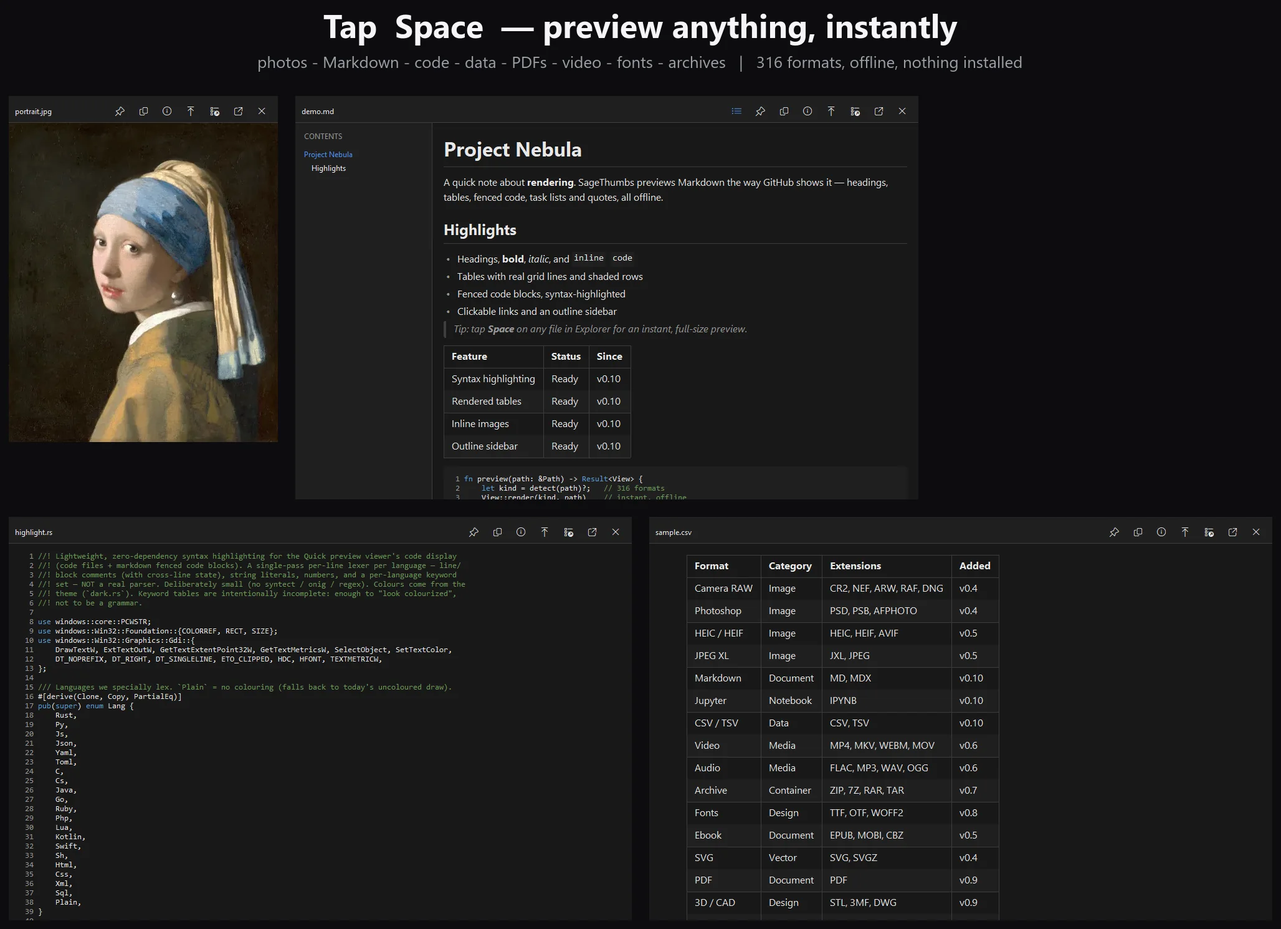
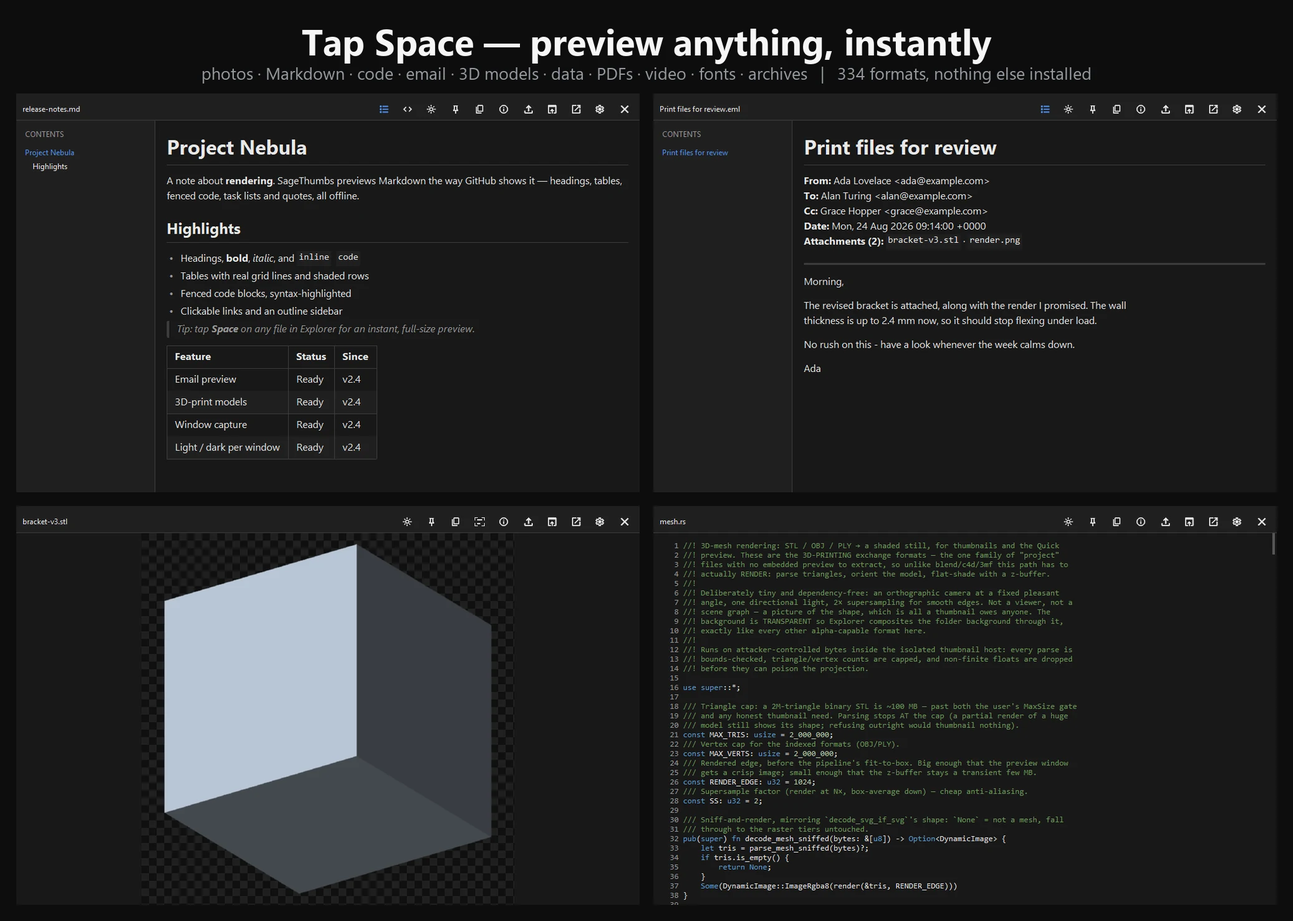
Catch the site up with 2.4.0
Copy: email preview (.eml / Outlook .msg), 3D-print models (STL/OBJ/PLY),
click-a-window capture with a delay, per-window light/dark, and table-aware
OCR. Two new "instead of" cards for the mail and 3D viewers this replaces.
The "New" badges move to the things that are actually new in this release.

Data: the format wall is regenerated from st2k formats (334, Image 202 - it
was still showing 195), the version pills read 2.4.0, and llms.txt /
llms-full.txt are rewritten to match. The comparison table's hard-coded
"active (v2.3.0)" is now version-free so it cannot go stale again.

Assets: the hero collage is regenerated (it advertised 316 formats over a
caption toolbar that no longer exists) along with settings.gif and
preview-quicklook.png; the collage's intrinsic width/height are corrected.

diff --git a/index.html b/index.html
@@ -5,7 +5,7 @@
 <meta name="viewport" content="width=device-width, initial-scale=1">
 <meta name="google-site-verification" content="CtrxYGRAu0kR219D9MHtBV3yyWb729kDbfQP6hnK7zg">
 <title>SageThumbs 2K: Explorer thumbnails for hundreds of file types Windows can't read</title>
-<meta name="description" content="File Explorer thumbnails for 331 file types Windows can't read: RAW, PSD, HEIC, video, ebooks, comics. Plus Quick Look, convert, resize, OCR. Free.">
+<meta name="description" content="File Explorer thumbnails for 334 file types Windows can't read: RAW, PSD, HEIC, video, ebooks, 3D models. Plus Quick Look, email preview, convert, resize, OCR. Free.">
 <link rel="canonical" href="https://sagethumbs.lunarwerx.com/">
 <meta name="robots" content="index, follow, max-image-preview:large, max-snippet:-1, max-video-preview:-1">
 <link rel="icon" type="image/png" href="favicon.png">
@@ -48,7 +48,7 @@
       "name": "SageThumbs 2K",
       "operatingSystem": "Windows 11, Windows 10",
       "applicationCategory": "UtilitiesApplication",
-      "softwareVersion": "2.3.2",
+      "softwareVersion": "2.4.0",
       "url": "https://sagethumbs.lunarwerx.com/",
       "downloadUrl": "https://github.com/LunarWerxs/SageThumbs-2k/releases/latest",
       "softwareHelp": "https://github.com/LunarWerxs/SageThumbs-2k",
@@ -67,9 +67,13 @@
         "Command line and MCP server for AI agents",
         "Space-bar Quick Look: instant full-size file preview",
         "Screen OCR: drag a region and copy the text on it",
-        "HDR screen capture, tone-mapped instead of washed out (new)",
-        "Strip metadata including Content Credentials (C2PA), across JPEG, PNG, WebP, SVG, HEIC and AVIF (new)",
-        "EPS thumbnails from the embedded raster preview, without running PostScript (new)",
+        "HDR screen capture, tone-mapped instead of washed out",
+        "Strip metadata including Content Credentials (C2PA), across JPEG, PNG, WebP, SVG, HEIC and AVIF",
+        "EPS thumbnails from the embedded raster preview, without running PostScript",
+        "3D-print model thumbnails and preview: STL, OBJ and PLY, shaded (new)",
+        "Email preview: .eml and Outlook .msg, with headers, body and the attachment list (new)",
+        "Capture one window by pointing at it, without cropping the screen by hand (new)",
+        "Light or dark preview background per window, without changing the app theme (new)",
         "Replaces a dozen tools: converter, resizer, colour picker, screenshot, OCR and uploader",
         "Crash-isolated, memory-safe Rust"
       ],
@@ -188,7 +192,7 @@
           "name": "What other tools does it replace?",
           "acceptedAnswer": {
             "@type": "Answer",
-            "text": "One installer covers a separate thumbnailer, image converter, resizer, colour picker, screenshot and annotation tool, OCR utility, EXIF viewer, metadata stripper and image uploader, plus a command line and MCP server for scripts and AI agents. See what it replaces for the full list."
+            "text": "One installer covers a separate thumbnailer, image converter, resizer, colour picker, screenshot and annotation tool, OCR utility, EXIF viewer, metadata stripper, image uploader, file previewer, email viewer and 3D-model viewer, plus a command line and MCP server for scripts and AI agents. See what it replaces for the full list."
           }
         }
       ]
@@ -850,19 +854,19 @@ a.lw-parent:hover .lw-tip,a.lw-parent:focus-visible .lw-tip{opacity:1;visibility
       <p>Windows ships codecs for a handful of common types. Every other extension is content-sniffed and routed to a pure-Rust decoder, the Windows codecs, or an isolated converter. First match wins.</p>
     </div>
 
-    <div class="bar reveal" role="img" aria-label="Format coverage by category: 195 image, 43 document, 34 camera raw, 22 video, 18 audio, 12 ebook and comics, 3 archive">
-      <span style="width:59.6%;background:#4d9cff"></span>
-      <span style="width:13.1%;background:#ef8b5a"></span>
-      <span style="width:10.4%;background:#b48bff"></span>
-      <span style="width:6.7%;background:#f06ab0"></span>
-      <span style="width:5.5%;background:#38d39f"></span>
-      <span style="width:3.7%;background:#f2c14e"></span>
+    <div class="bar reveal" role="img" aria-label="Format coverage by category: 202 image, 43 document, 34 camera raw, 22 video, 18 audio, 12 ebook and comics, 3 archive">
+      <span style="width:60.5%;background:#4d9cff"></span>
+      <span style="width:12.9%;background:#ef8b5a"></span>
+      <span style="width:10.2%;background:#b48bff"></span>
+      <span style="width:6.6%;background:#f06ab0"></span>
+      <span style="width:5.4%;background:#38d39f"></span>
+      <span style="width:3.6%;background:#f2c14e"></span>
       <span style="width:0.9%;background:#7d8ca3"></span>
     </div>
     <div class="fmtwall reveal">
       <div class="fmtgroup reveal" data-cat="img">
-        <h3 class="fgh"><span class="sw"></span>Image <span class="cnt">195</span></h3>
-        <div class="fgchips"><span class="fc" title="Rhino 3D model">.3dm</span> <span class="fc" title="3D Manufacturing Format">.3mf</span> <span class="fc" title="Affinity document">.af</span> <span class="fc" title="Affinity Designer document">.afdesign</span> <span class="fc" title="Affinity Photo document">.afphoto</span> <span class="fc" title="Affinity Publisher document">.afpub</span> <span class="fc" title="Affinity template document">.aftemplate</span> <span class="fc" title="Adobe Illustrator (PDF-compatible)">.ai</span> <span class="fc" title="Animated Portable Network Graphics">.apng</span> <span class="fc" title="AVC Image File Format">.avci</span> <span class="fc" title="AV1 Image File Format">.avif</span> <span class="fc" title="Blender scene">.blend</span> <span class="fc" title="Blender auto-save backup">.blend1</span> <span class="fc" title="Blender auto-save backup">.blend10</span> <span class="fc" title="Blender auto-save backup">.blend11</span> <span class="fc" title="Blender auto-save backup">.blend12</span> <span class="fc" title="Blender auto-save backup">.blend13</span> <span class="fc" title="Blender auto-save backup">.blend14</span> <span class="fc" title="Blender auto-save backup">.blend15</span> <span class="fc" title="Blender auto-save backup">.blend16</span> <span class="fc" title="Blender auto-save backup">.blend17</span> <span class="fc" title="Blender auto-save backup">.blend18</span> <span class="fc" title="Blender auto-save backup">.blend19</span> <span class="fc" title="Blender auto-save backup">.blend2</span> <span class="fc" title="Blender auto-save backup">.blend20</span> <span class="fc" title="Blender auto-save backup">.blend21</span> <span class="fc" title="Blender auto-save backup">.blend22</span> <span class="fc" title="Blender auto-save backup">.blend23</span> <span class="fc" title="Blender auto-save backup">.blend24</span> <span class="fc" title="Blender auto-save backup">.blend25</span> <span class="fc" title="Blender auto-save backup">.blend26</span> <span class="fc" title="Blender auto-save backup">.blend27</span> <span class="fc" title="Blender auto-save backup">.blend28</span> <span class="fc" title="Blender auto-save backup">.blend29</span> <span class="fc" title="Blender auto-save backup">.blend3</span> <span class="fc" title="Blender auto-save backup">.blend30</span> <span class="fc" title="Blender auto-save backup">.blend31</span> <span class="fc" title="Blender auto-save backup">.blend32</span> <span class="fc" title="Blender auto-save backup">.blend4</span> <span class="fc" title="Blender auto-save backup">.blend5</span> <span class="fc" title="Blender auto-save backup">.blend6</span> <span class="fc" title="Blender auto-save backup">.blend7</span> <span class="fc" title="Blender auto-save backup">.blend8</span> <span class="fc" title="Blender auto-save backup">.blend9</span> <span class="fc" title="Microsoft Windows bitmap image">.bmp</span> <span class="fc" title="Silicon Graphics (B&amp;W)">.bw</span> <span class="fc" title="Cinema 4D scene">.c4d</span> <span class="fc" title="Continuous Acquisition and Life-cycle Support">.cal</span> <span class="fc" title="Continuous Acquisition and Life-cycle Support">.cals</span> <span class="fc" title="CorelDRAW drawing">.cdr</span> <span class="fc" title="CorelDRAW template">.cdt</span> <span class="fc" title="Cineon Image File">.cin</span> <span class="fc" title="Clip Studio Paint document">.clip</span> <span class="fc" title="Corel Presentation Exchange">.cmx</span> <span class="fc" title="Microsoft icon">.cur</span> <span class="fc" title="DR Halo">.cut</span> <span class="fc" title="OpenEXR image">.cxr</span> <span class="fc" title="DICOM medical image">.dcm</span> <span class="fc" title="ZSoft IBM PC multi-page Paintbrush">.dcx</span> <span class="fc" title="Microsoft DirectDraw Surface">.dds</span> <span class="fc" title="Windows DIB">.dib</span> <span class="fc" title="DICOM medical image">.dicom</span> <span class="fc" title="SMPTE 268M-2003">.dpx</span> <span class="fc" title="AutoCAD drawing">.dwg</span> <span class="fc" title="Microsoft DirectDraw Surface">.dxt1</span> <span class="fc" title="Microsoft DirectDraw Surface">.dxt5</span> <span class="fc" title="Windows Enhanced Metafile">.emf</span> <span class="fc" title="Windows Enhanced Metafile">.emg</span> <span class="fc" title="Compressed Windows Enhanced Metafile">.emz</span> <span class="fc" title="Encapsulated PostScript (embedded preview)">.eps</span> <span class="fc" title="High Dynamic-range (OpenEXR)">.exr</span> <span class="fc" title="Autodesk Fusion 360 archive">.f3d</span> <span class="fc" title="Farbfeld">.farbfeld</span> <span class="fc" title="FreeCAD document">.fcstd</span> <span class="fc" title="Farbfeld">.ff</span> <span class="fc" title="Flexible Image Transport System">.fits</span> <span class="fc" title="FilmLight">.fl32</span> <span class="fc" title="Flexible Image Transport System">.fts</span> <span class="fc" title="3D-printer G-code (sliced)">.gco</span> <span class="fc" title="3D-printer G-code (sliced)">.gcode</span> <span class="fc" title="CompuServe graphics interchange format">.gif</span> <span class="fc" title="HD Photo (JPEG XR)">.hdp</span> <span class="fc" title="Radiance RGBE image format">.hdr</span> <span class="fc" title="Radiance HDR image format">.hdri</span> <span class="fc" title="High Efficiency Image Format">.heic</span> <span class="fc" title="HEIF image sequence">.heics</span> <span class="fc" title="High Efficiency Image Format">.heif</span> <span class="fc" title="HEIF image sequence">.heifs</span> <span class="fc" title="High Efficiency Image Format">.hif</span> <span class="fc" title="Truevision Targa image">.icb</span> <span class="fc" title="Apple Icon Image">.icns</span> <span class="fc" title="Microsoft icon">.ico</span> <span class="fc" title="Microsoft icon">.icon</span> <span class="fc" title="Amiga IFF ILBM image">.iff</span> <span class="fc" title="Amiga IFF ILBM image">.ilbm</span> <span class="fc" title="JPEG-2000 Code Stream Syntax">.j2c</span> <span class="fc" title="JPEG-2000 Code Stream Syntax">.j2k</span> <span class="fc" title="JPEG/JFIF">.jfif</span> <span class="fc" title="JPEG Network Graphics">.jng</span> <span class="fc" title="Garmin tile format">.jnx</span> <span class="fc" title="JPEG-2000 File Format Syntax">.jp2</span> <span class="fc" title="JPEG-2000 Code Stream Syntax">.jpc</span> <span class="fc" title="JPEG (JFIF)">.jpe</span> <span class="fc" title="JPEG (JFIF)">.jpeg</span> <span class="fc" title="JPEG-2000 File Format Syntax">.jpf</span> <span class="fc" title="JPEG (JFIF)">.jpg</span> <span class="fc" title="JPEG-2000 File Format Syntax">.jpm</span> <span class="fc" title="Stereo JPEG">.jps</span> <span class="fc" title="JPEG-2000 Part-2 (extended)">.jpx</span> <span class="fc" title="JPEG XL (ISO/IEC 18181)">.jxl</span> <span class="fc" title="JPEG XR (ISO/IEC 29199-2)">.jxr</span> <span class="fc" title="Krita document">.kra</span> <span class="fc" title="Deluxe Paint ILBM image">.lbm</span> <span class="fc" title="Apple Live Photo">.livp</span> <span class="fc" title="MacPaint">.mac</span> <span class="fc" title="MATLAB level 5 image format">.mat</span> <span class="fc" title="Autodesk 3ds Max scene">.max</span> <span class="fc" title="Magick Image File Format">.miff</span> <span class="fc" title="Multiple-image Network Graphics">.mng</span> <span class="fc" title="Multi-Picture (3D) JPEG">.mpo</span> <span class="fc" title="OpenRaster format">.ora</span> <span class="fc" title="Portable Arbitrary Map">.pam</span> <span class="fc" title="Portable bitmap format">.pbm</span> <span class="fc" title="Photo CD">.pcd</span> <span class="fc" title="ZSoft IBM PC Paintbrush">.pcx</span> <span class="fc" title="Palm Database ImageViewer Format">.pdb</span> <span class="fc" title="Adobe Photoshop bitmap">.pdd</span> <span class="fc" title="Paint.NET image">.pdn</span> <span class="fc" title="Embird Embroidery Format">.pes</span> <span class="fc" title="Portable float format">.pfm</span> <span class="fc" title="Portable graymap format">.pgm</span> <span class="fc" title="JPEG 2000 uncompressed format">.pgx</span> <span class="fc" title="Photo CD">.ph</span> <span class="fc" title="Portable half float format">.phm</span> <span class="fc" title="Alias/Wavefront RLE image format">.pix</span> <span class="fc" title="Portable Network Graphics">.png</span> <span class="fc" title="Portable anymap">.pnm</span> <span class="fc" title="Portable pixmap format">.ppm</span> <span class="fc" title="Procreate document">.procreate</span> <span class="fc" title="Adobe Large Document Format">.psb</span> <span class="fc" title="Adobe Photoshop bitmap">.psd</span> <span class="fc" title="Adobe Photoshop template">.psdt</span> <span class="fc" title="Paint Shop Pro image">.psp</span> <span class="fc" title="Paint Shop Pro brush">.pspbrush</span> <span class="fc" title="Paint Shop Pro picture frame">.pspframe</span> <span class="fc" title="Paint Shop Pro image">.pspimage</span> <span class="fc" title="Paint Shop Pro mask">.pspmask</span> <span class="fc" title="Paint Shop Pro selection">.pspselection</span> <span class="fc" title="Paint Shop Pro preset shape">.pspshape</span> <span class="fc" title="Paint Shop Pro picture tube">.psptube</span> <span class="fc" title="Pyramid encoded TIFF">.ptif</span> <span class="fc" title="Seattle Film Works">.pwp</span> <span class="fc" title="Quite OK image format">.qoi</span> <span class="fc" title="SUN Rasterfile">.ras</span> <span class="fc" title="Radiance RGBE image format">.rgbe</span> <span class="fc" title="Alias/Wavefront image">.rla</span> <span class="fc" title="Utah Run length encoded image">.rle</span> <span class="fc" title="Raw Media Format">.rmf</span> <span class="fc" title="ZX-Spectrum SCREEN$">.scr</span> <span class="fc" title="Scitex HandShake">.sct</span> <span class="fc" title="Simple File Format Family Images">.sf3</span> <span class="fc" title="Seattle Film Works">.sfw</span> <span class="fc" title="Silicon Graphics RGB">.sgi</span> <span class="fc" title="SketchUp backup model">.skb</span> <span class="fc" title="Sketch design document">.sketch</span> <span class="fc" title="SketchUp model">.skp</span> <span class="fc" title="Sinar CaptureShop Raw Format">.sti</span> <span class="fc" title="SUN Rasterfile">.sun</span> <span class="fc" title="Scalable Vector Graphics">.svg</span> <span class="fc" title="Compressed Scalable Vector Graphics">.svgz</span> <span class="fc" title="Truevision Targa image">.tga</span> <span class="fc" title="Tagged Image File Format">.tif</span> <span class="fc" title="Tagged Image File Format">.tiff</span> <span class="fc" title="Tagged Image File Format (64-bit)">.tiff64</span> <span class="fc" title="PSX TIM">.tim</span> <span class="fc" title="PS2 TIM2">.tm2</span> <span class="fc" title="Truevision Targa image">.tpic</span> <span class="fc" title="Paint Shop Pro picture tube (legacy)">.tub</span> <span class="fc" title="Truevision Targa image">.vda</span> <span class="fc" title="Video Image Communication And Retrieval">.vicar</span> <span class="fc" title="Khoros Visualization image">.viff</span> <span class="fc" title="VIPS image">.vips</span> <span class="fc" title="Truevision Targa image">.vst</span> <span class="fc" title="HD Photo / Windows Media Photo (JPEG XR)">.wdp</span> <span class="fc" title="Google WebP">.webp</span> <span class="fc" title="Windows Metafile">.wmf</span> <span class="fc" title="HD Photo / Windows Media Photo (JPEG XR)">.wmp</span> <span class="fc" title="Compressed Windows Metafile">.wmz</span> <span class="fc" title="Word Perfect Graphics">.wpg</span> <span class="fc" title="X Windows system bitmap">.xbm</span> <span class="fc" title="GIMP image">.xcf</span> <span class="fc" title="Adobe XD design">.xd</span> <span class="fc" title="X Windows system pixmap">.xpm</span> <span class="fc" title="Khoros Visualization image">.xv</span> <span class="fc" title="Radiance XYZE image format">.xyze</span></div>
+        <h3 class="fgh"><span class="sw"></span>Image <span class="cnt">202</span></h3>
+        <div class="fgchips"><span class="fc" title="Rhino 3D model">.3dm</span> <span class="fc" title="3D Manufacturing Format">.3mf</span> <span class="fc" title="Affinity document">.af</span> <span class="fc" title="Affinity Designer document">.afdesign</span> <span class="fc" title="Affinity Photo document">.afphoto</span> <span class="fc" title="Affinity Publisher document">.afpub</span> <span class="fc" title="Affinity template document">.aftemplate</span> <span class="fc" title="Adobe Illustrator (PDF-compatible)">.ai</span> <span class="fc" title="Android application package">.apk</span> <span class="fc" title="Android split-APK bundle (APKM)">.apkm</span> <span class="fc" title="Android split-APK bundle">.apks</span> <span class="fc" title="Animated Portable Network Graphics">.apng</span> <span class="fc" title="AVC Image File Format">.avci</span> <span class="fc" title="AV1 Image File Format">.avif</span> <span class="fc" title="Blender scene">.blend</span> <span class="fc" title="Blender auto-save backup">.blend1</span> <span class="fc" title="Blender auto-save backup">.blend10</span> <span class="fc" title="Blender auto-save backup">.blend11</span> <span class="fc" title="Blender auto-save backup">.blend12</span> <span class="fc" title="Blender auto-save backup">.blend13</span> <span class="fc" title="Blender auto-save backup">.blend14</span> <span class="fc" title="Blender auto-save backup">.blend15</span> <span class="fc" title="Blender auto-save backup">.blend16</span> <span class="fc" title="Blender auto-save backup">.blend17</span> <span class="fc" title="Blender auto-save backup">.blend18</span> <span class="fc" title="Blender auto-save backup">.blend19</span> <span class="fc" title="Blender auto-save backup">.blend2</span> <span class="fc" title="Blender auto-save backup">.blend20</span> <span class="fc" title="Blender auto-save backup">.blend21</span> <span class="fc" title="Blender auto-save backup">.blend22</span> <span class="fc" title="Blender auto-save backup">.blend23</span> <span class="fc" title="Blender auto-save backup">.blend24</span> <span class="fc" title="Blender auto-save backup">.blend25</span> <span class="fc" title="Blender auto-save backup">.blend26</span> <span class="fc" title="Blender auto-save backup">.blend27</span> <span class="fc" title="Blender auto-save backup">.blend28</span> <span class="fc" title="Blender auto-save backup">.blend29</span> <span class="fc" title="Blender auto-save backup">.blend3</span> <span class="fc" title="Blender auto-save backup">.blend30</span> <span class="fc" title="Blender auto-save backup">.blend31</span> <span class="fc" title="Blender auto-save backup">.blend32</span> <span class="fc" title="Blender auto-save backup">.blend4</span> <span class="fc" title="Blender auto-save backup">.blend5</span> <span class="fc" title="Blender auto-save backup">.blend6</span> <span class="fc" title="Blender auto-save backup">.blend7</span> <span class="fc" title="Blender auto-save backup">.blend8</span> <span class="fc" title="Blender auto-save backup">.blend9</span> <span class="fc" title="Microsoft Windows bitmap image">.bmp</span> <span class="fc" title="Silicon Graphics (B&amp;W)">.bw</span> <span class="fc" title="Cinema 4D scene">.c4d</span> <span class="fc" title="Continuous Acquisition and Life-cycle Support">.cal</span> <span class="fc" title="Continuous Acquisition and Life-cycle Support">.cals</span> <span class="fc" title="CorelDRAW drawing">.cdr</span> <span class="fc" title="CorelDRAW template">.cdt</span> <span class="fc" title="Cineon Image File">.cin</span> <span class="fc" title="Clip Studio Paint document">.clip</span> <span class="fc" title="Corel Presentation Exchange">.cmx</span> <span class="fc" title="Microsoft icon">.cur</span> <span class="fc" title="DR Halo">.cut</span> <span class="fc" title="OpenEXR image">.cxr</span> <span class="fc" title="DICOM medical image">.dcm</span> <span class="fc" title="ZSoft IBM PC multi-page Paintbrush">.dcx</span> <span class="fc" title="Microsoft DirectDraw Surface">.dds</span> <span class="fc" title="Windows DIB">.dib</span> <span class="fc" title="DICOM medical image">.dicom</span> <span class="fc" title="SMPTE 268M-2003">.dpx</span> <span class="fc" title="AutoCAD drawing">.dwg</span> <span class="fc" title="Microsoft DirectDraw Surface">.dxt1</span> <span class="fc" title="Microsoft DirectDraw Surface">.dxt5</span> <span class="fc" title="Windows Enhanced Metafile">.emf</span> <span class="fc" title="Windows Enhanced Metafile">.emg</span> <span class="fc" title="Compressed Windows Enhanced Metafile">.emz</span> <span class="fc" title="Encapsulated PostScript (embedded preview)">.eps</span> <span class="fc" title="High Dynamic-range (OpenEXR)">.exr</span> <span class="fc" title="Autodesk Fusion 360 archive">.f3d</span> <span class="fc" title="Farbfeld">.farbfeld</span> <span class="fc" title="FreeCAD document">.fcstd</span> <span class="fc" title="Farbfeld">.ff</span> <span class="fc" title="Flexible Image Transport System">.fits</span> <span class="fc" title="FilmLight">.fl32</span> <span class="fc" title="Flexible Image Transport System">.fts</span> <span class="fc" title="3D-printer G-code (sliced)">.gco</span> <span class="fc" title="3D-printer G-code (sliced)">.gcode</span> <span class="fc" title="CompuServe graphics interchange format">.gif</span> <span class="fc" title="HD Photo (JPEG XR)">.hdp</span> <span class="fc" title="Radiance RGBE image format">.hdr</span> <span class="fc" title="Radiance HDR image format">.hdri</span> <span class="fc" title="High Efficiency Image Format">.heic</span> <span class="fc" title="HEIF image sequence">.heics</span> <span class="fc" title="High Efficiency Image Format">.heif</span> <span class="fc" title="HEIF image sequence">.heifs</span> <span class="fc" title="High Efficiency Image Format">.hif</span> <span class="fc" title="Truevision Targa image">.icb</span> <span class="fc" title="Apple Icon Image">.icns</span> <span class="fc" title="Microsoft icon">.ico</span> <span class="fc" title="Microsoft icon">.icon</span> <span class="fc" title="Amiga IFF ILBM image">.iff</span> <span class="fc" title="Amiga IFF ILBM image">.ilbm</span> <span class="fc" title="JPEG-2000 Code Stream Syntax">.j2c</span> <span class="fc" title="JPEG-2000 Code Stream Syntax">.j2k</span> <span class="fc" title="JPEG/JFIF">.jfif</span> <span class="fc" title="JPEG Network Graphics">.jng</span> <span class="fc" title="Garmin tile format">.jnx</span> <span class="fc" title="JPEG-2000 File Format Syntax">.jp2</span> <span class="fc" title="JPEG-2000 Code Stream Syntax">.jpc</span> <span class="fc" title="JPEG (JFIF)">.jpe</span> <span class="fc" title="JPEG (JFIF)">.jpeg</span> <span class="fc" title="JPEG-2000 File Format Syntax">.jpf</span> <span class="fc" title="JPEG (JFIF)">.jpg</span> <span class="fc" title="JPEG-2000 File Format Syntax">.jpm</span> <span class="fc" title="Stereo JPEG">.jps</span> <span class="fc" title="JPEG-2000 Part-2 (extended)">.jpx</span> <span class="fc" title="JPEG XL (ISO/IEC 18181)">.jxl</span> <span class="fc" title="JPEG XR (ISO/IEC 29199-2)">.jxr</span> <span class="fc" title="Krita document">.kra</span> <span class="fc" title="Deluxe Paint ILBM image">.lbm</span> <span class="fc" title="Apple Live Photo">.livp</span> <span class="fc" title="MacPaint">.mac</span> <span class="fc" title="MATLAB level 5 image format">.mat</span> <span class="fc" title="Autodesk 3ds Max scene">.max</span> <span class="fc" title="Magick Image File Format">.miff</span> <span class="fc" title="Multiple-image Network Graphics">.mng</span> <span class="fc" title="Multi-Picture (3D) JPEG">.mpo</span> <span class="fc" title="Wavefront 3D model">.obj</span> <span class="fc" title="OpenRaster format">.ora</span> <span class="fc" title="Portable Arbitrary Map">.pam</span> <span class="fc" title="Portable bitmap format">.pbm</span> <span class="fc" title="Photo CD">.pcd</span> <span class="fc" title="ZSoft IBM PC Paintbrush">.pcx</span> <span class="fc" title="Palm Database ImageViewer Format">.pdb</span> <span class="fc" title="Adobe Photoshop bitmap">.pdd</span> <span class="fc" title="Paint.NET image">.pdn</span> <span class="fc" title="Embird Embroidery Format">.pes</span> <span class="fc" title="Portable float format">.pfm</span> <span class="fc" title="Portable graymap format">.pgm</span> <span class="fc" title="JPEG 2000 uncompressed format">.pgx</span> <span class="fc" title="Photo CD">.ph</span> <span class="fc" title="Portable half float format">.phm</span> <span class="fc" title="Alias/Wavefront RLE image format">.pix</span> <span class="fc" title="Polygon File Format 3D model">.ply</span> <span class="fc" title="Portable Network Graphics">.png</span> <span class="fc" title="Portable anymap">.pnm</span> <span class="fc" title="Portable pixmap format">.ppm</span> <span class="fc" title="Procreate document">.procreate</span> <span class="fc" title="Adobe Large Document Format">.psb</span> <span class="fc" title="Adobe Photoshop bitmap">.psd</span> <span class="fc" title="Adobe Photoshop template">.psdt</span> <span class="fc" title="Paint Shop Pro image">.psp</span> <span class="fc" title="Paint Shop Pro brush">.pspbrush</span> <span class="fc" title="Paint Shop Pro picture frame">.pspframe</span> <span class="fc" title="Paint Shop Pro image">.pspimage</span> <span class="fc" title="Paint Shop Pro mask">.pspmask</span> <span class="fc" title="Paint Shop Pro selection">.pspselection</span> <span class="fc" title="Paint Shop Pro preset shape">.pspshape</span> <span class="fc" title="Paint Shop Pro picture tube">.psptube</span> <span class="fc" title="Pyramid encoded TIFF">.ptif</span> <span class="fc" title="Seattle Film Works">.pwp</span> <span class="fc" title="Quite OK image format">.qoi</span> <span class="fc" title="SUN Rasterfile">.ras</span> <span class="fc" title="Radiance RGBE image format">.rgbe</span> <span class="fc" title="Alias/Wavefront image">.rla</span> <span class="fc" title="Utah Run length encoded image">.rle</span> <span class="fc" title="Raw Media Format">.rmf</span> <span class="fc" title="ZX-Spectrum SCREEN$">.scr</span> <span class="fc" title="Scitex HandShake">.sct</span> <span class="fc" title="Simple File Format Family Images">.sf3</span> <span class="fc" title="Seattle Film Works">.sfw</span> <span class="fc" title="Silicon Graphics RGB">.sgi</span> <span class="fc" title="SketchUp backup model">.skb</span> <span class="fc" title="Sketch design document">.sketch</span> <span class="fc" title="SketchUp model">.skp</span> <span class="fc" title="Sinar CaptureShop Raw Format">.sti</span> <span class="fc" title="Stereolithography 3D model">.stl</span> <span class="fc" title="SUN Rasterfile">.sun</span> <span class="fc" title="Scalable Vector Graphics">.svg</span> <span class="fc" title="Compressed Scalable Vector Graphics">.svgz</span> <span class="fc" title="Truevision Targa image">.tga</span> <span class="fc" title="Tagged Image File Format">.tif</span> <span class="fc" title="Tagged Image File Format">.tiff</span> <span class="fc" title="Tagged Image File Format (64-bit)">.tiff64</span> <span class="fc" title="PSX TIM">.tim</span> <span class="fc" title="PS2 TIM2">.tm2</span> <span class="fc" title="Truevision Targa image">.tpic</span> <span class="fc" title="Paint Shop Pro picture tube (legacy)">.tub</span> <span class="fc" title="Truevision Targa image">.vda</span> <span class="fc" title="Video Image Communication And Retrieval">.vicar</span> <span class="fc" title="Khoros Visualization image">.viff</span> <span class="fc" title="VIPS image">.vips</span> <span class="fc" title="Truevision Targa image">.vst</span> <span class="fc" title="HD Photo / Windows Media Photo (JPEG XR)">.wdp</span> <span class="fc" title="Google WebP">.webp</span> <span class="fc" title="Windows Metafile">.wmf</span> <span class="fc" title="HD Photo / Windows Media Photo (JPEG XR)">.wmp</span> <span class="fc" title="Compressed Windows Metafile">.wmz</span> <span class="fc" title="Word Perfect Graphics">.wpg</span> <span class="fc" title="Android split-APK bundle (XAPK)">.xapk</span> <span class="fc" title="X Windows system bitmap">.xbm</span> <span class="fc" title="GIMP image">.xcf</span> <span class="fc" title="Adobe XD design">.xd</span> <span class="fc" title="X Windows system pixmap">.xpm</span> <span class="fc" title="Khoros Visualization image">.xv</span> <span class="fc" title="Radiance XYZE image format">.xyze</span></div>
       </div>
       <div class="fmtgroup reveal" data-cat="doc">
         <h3 class="fgh"><span class="sw"></span>Document <span class="cnt">43</span></h3>
@@ -980,13 +984,15 @@ a.lw-parent:hover .lw-tip,a.lw-parent:focus-visible .lw-tip{opacity:1;visibility
             <li><svg class="ck" width="18" height="18" viewBox="0 0 24 24" fill="none" stroke="currentColor" stroke-width="2.4" stroke-linecap="round" stroke-linejoin="round" aria-hidden="true"><path d="M20 6 9 17l-5-5"/></svg>Multi-page PDFs scroll like a document, with page thumbnails, sharp zoom and Ctrl+F search; fonts show a specimen sheet</li>
             <li><svg class="ck" width="18" height="18" viewBox="0 0 24 24" fill="none" stroke="currentColor" stroke-width="2.4" stroke-linecap="round" stroke-linejoin="round" aria-hidden="true"><path d="M20 6 9 17l-5-5"/></svg>Archives (zip, 7z, rar) list their contents without extracting</li>
             <li><svg class="ck" width="18" height="18" viewBox="0 0 24 24" fill="none" stroke="currentColor" stroke-width="2.4" stroke-linecap="round" stroke-linejoin="round" aria-hidden="true"><path d="M20 6 9 17l-5-5"/></svg>SQLite databases (.db, .sqlite) open as tables: columns, rows and schema, read-only</li>
-            <li><svg class="ck" width="18" height="18" viewBox="0 0 24 24" fill="none" stroke="currentColor" stroke-width="2.4" stroke-linecap="round" stroke-linejoin="round" aria-hidden="true"><path d="M20 6 9 17l-5-5"/></svg>One click copies the text out of the picture you're looking at (OCR)</li>
+            <li><svg class="ck" width="18" height="18" viewBox="0 0 24 24" fill="none" stroke="currentColor" stroke-width="2.4" stroke-linecap="round" stroke-linejoin="round" aria-hidden="true"><path d="M20 6 9 17l-5-5"/></svg>Email files open as mail: <b>.eml</b> and Outlook <b>.msg</b> show the headers, the message and the attachment list, with nothing fetched from the web and no attachment opened</li>
+            <li><svg class="ck" width="18" height="18" viewBox="0 0 24 24" fill="none" stroke="currentColor" stroke-width="2.4" stroke-linecap="round" stroke-linejoin="round" aria-hidden="true"><path d="M20 6 9 17l-5-5"/></svg><b>3D-print models</b> (STL, OBJ, PLY) are rendered and shaded, so you can tell your prints apart without opening a slicer</li>
+            <li><svg class="ck" width="18" height="18" viewBox="0 0 24 24" fill="none" stroke="currentColor" stroke-width="2.4" stroke-linecap="round" stroke-linejoin="round" aria-hidden="true"><path d="M20 6 9 17l-5-5"/></svg>One click copies the text out of the picture you're looking at (OCR), and a table in a scan comes back as a table rather than one jumbled line</li>
           </ul>
           <div class="toolbits">
-            <span class="tb">Space to open or close</span><span class="tb">&larr; &rarr; flip through the folder</span><span class="tb">F11 full-screen</span><span class="tb">Never steals focus</span>
+            <span class="tb">Space to open or close</span><span class="tb">&larr; &rarr; flip through the folder</span><span class="tb">F11 full-screen</span><span class="tb">Light or dark, per window</span><span class="tb">Never steals focus</span>
           </div>
         </div>
-        <div class="evisual"><img src="img/preview-collage.webp" width="2056" height="1490" alt="The SageThumbs 2K Quick preview, opened by pressing Space in Explorer, showing a playing video, a syntax-highlighted source file, a rendered Markdown document and images side by side"></div>
+        <div class="evisual"><img src="img/preview-collage.webp" width="2074" height="1478" alt="SageThumbs 2K Quick preview, opened by pressing Space in Explorer: a rendered Markdown document, an email showing its headers and attachment list, a shaded 3D-print model, and a syntax-highlighted source file, side by side"></div>
       </article>
       <article class="ecard wide reveal">
         <div class="ebody">
@@ -1021,16 +1027,18 @@ a.lw-parent:hover .lw-tip,a.lw-parent:focus-visible .lw-tip{opacity:1;visibility
     <div class="swaps reveal">
       <div class="swap"><div class="old"><span class="ol">Instead of</span><div class="chips"><span>MysticThumbs</span><span>FastPictureViewer</span><span>Icaros</span></div></div><div class="new"><span class="nl">You get</span><p><b>Thumbnails</b> for the formats Windows ignores (RAW, PSD, HEIC, video, ebooks), crash-isolated so a corrupt file can't hang Explorer.</p></div></div>
       <div class="swap"><div class="old"><span class="ol">Instead of</span><div class="chips"><span>a preview-pane add-on</span></div></div><div class="new"><span class="nl">You get</span><p>A built-in large <b>preview handler</b> for 300+ formats, in the reading pane and Open dialogs.</p></div></div>
-      <div class="swap"><div class="old"><span class="ol">Instead of</span><div class="chips"><span>QuickLook</span><span>Seer</span><span>WinQuickLook</span></div></div><div class="new"><span class="nl">You get</span><p><b>Tap Space on any file</b> for an instant full-size preview, macOS-style Quick Look.<span style="display:inline-block;margin-left:8px;font-family:'Geist Mono',monospace;font-size:.6rem;letter-spacing:.06em;text-transform:uppercase;color:var(--teal);border:1px solid color-mix(in srgb,var(--teal) 45%,transparent);border-radius:6px;padding:2px 6px;vertical-align:middle">New</span></p></div></div>
+      <div class="swap"><div class="old"><span class="ol">Instead of</span><div class="chips"><span>QuickLook</span><span>Seer</span><span>WinQuickLook</span></div></div><div class="new"><span class="nl">You get</span><p><b>Tap Space on any file</b> for an instant full-size preview, macOS-style Quick Look.</p></div></div>
+      <div class="swap"><div class="old"><span class="ol">Instead of</span><div class="chips"><span>a free .msg viewer</span><span>opening Outlook to read one file</span></div></div><div class="new"><span class="nl">You get</span><p>Press Space on an <b>.eml or Outlook .msg</b> and read it: sender, subject, date, the message itself and a list of what is attached. Nothing is fetched from the web, and no attachment is ever opened or written out.<span style="display:inline-block;margin-left:8px;font-family:'Geist Mono',monospace;font-size:.6rem;letter-spacing:.06em;text-transform:uppercase;color:var(--teal);border:1px solid color-mix(in srgb,var(--teal) 45%,transparent);border-radius:6px;padding:2px 6px;vertical-align:middle">New</span></p></div></div>
+      <div class="swap"><div class="old"><span class="ol">Instead of</span><div class="chips"><span>Windows 3D Viewer</span><span>loading a slicer just to look</span></div></div><div class="new"><span class="nl">You get</span><p><b>STL, OBJ and PLY models</b> get a real shaded thumbnail in Explorer and a full-size preview, so a folder of prints stops being a wall of identical icons.<span style="display:inline-block;margin-left:8px;font-family:'Geist Mono',monospace;font-size:.6rem;letter-spacing:.06em;text-transform:uppercase;color:var(--teal);border:1px solid color-mix(in srgb,var(--teal) 45%,transparent);border-radius:6px;padding:2px 6px;vertical-align:middle">New</span></p></div></div>
       <div class="swap"><div class="old"><span class="ol">Instead of</span><div class="chips"><span>ExifToolGUI</span><span>Opanda IExif</span></div></div><div class="new"><span class="nl">You get</span><p>EXIF, GPS, dimensions and audio tags as <b>sortable Explorer columns</b> and details.</p></div></div>
       <div class="swap"><div class="old"><span class="ol">Instead of</span><div class="chips"><span>XnConvert</span><span>IrfanView</span><span>ImageMagick</span></div></div><div class="new"><span class="nl">You get</span><p>Right-click <b>Convert</b> to ~29 formats (AVIF, JPEG XL, PSD, DDS, EXR), batched across every core.</p></div></div>
       <div class="swap"><div class="old"><span class="ol">Instead of</span><div class="chips"><span>PowerToys Image Resizer</span></div></div><div class="new"><span class="nl">You get</span><p>Right-click <b>Resize</b> presets and <b>Shrink for email</b>, never upscales, keeps your original.</p></div></div>
       <div class="swap"><div class="old"><span class="ol">Instead of</span><div class="chips"><span>jpegtran</span><span>IrfanView lossless plugin</span></div></div><div class="new"><span class="nl">You get</span><p><b>Lossless JPEG rotate and flip</b>, DCT rearrangement with zero re-encode.</p></div></div>
       <div class="swap"><div class="old"><span class="ol">Instead of</span><div class="chips"><span>PowerToys Color Picker</span><span>Just Color Picker</span><span>Instant Eyedropper</span></div></div><div class="new"><span class="nl">You get</span><p>A <b>system-wide eyedropper</b> with a 10x loupe; Space copies <span class="mono">#RRGGBB</span> from anywhere on screen.</p></div></div>
-      <div class="swap"><div class="old"><span class="ol">Instead of</span><div class="chips"><span>Capture2Text</span><span>PowerToys Text Extractor</span></div></div><div class="new"><span class="nl">You get</span><p><b>Copy text off your screen</b>: drag a region and the words land on your clipboard, in an editable window so a misread character is fixable before you paste.<span style="display:inline-block;margin-left:8px;font-family:'Geist Mono',monospace;font-size:.6rem;letter-spacing:.06em;text-transform:uppercase;color:var(--teal);border:1px solid color-mix(in srgb,var(--teal) 45%,transparent);border-radius:6px;padding:2px 6px;vertical-align:middle">New</span></p></div></div>
-      <div class="swap"><div class="old"><span class="ol">Instead of</span><div class="chips"><span>ExifCleaner</span><span>BatchPurifier</span></div></div><div class="new"><span class="nl">You get</span><p>Right-click <b>Strip metadata</b> (EXIF/IPTC/XMP/GPS), losslessly, keeping your ICC profile. Also clears <b>Content Credentials (C2PA)</b>, the provenance record ordinary cleaners leave behind, across JPEG, PNG, WebP, SVG, HEIC and AVIF.<span style="display:inline-block;margin-left:8px;font-family:'Geist Mono',monospace;font-size:.6rem;letter-spacing:.06em;text-transform:uppercase;color:var(--teal);border:1px solid color-mix(in srgb,var(--teal) 45%,transparent);border-radius:6px;padding:2px 6px;vertical-align:middle">New</span></p></div></div>
-      <div class="swap"><div class="old"><span class="ol">Instead of</span><div class="chips"><span>a washed-out HDR screenshot</span></div></div><div class="new"><span class="nl">You get</span><p><b>Screen capture that matches an HDR display</b>, tone-mapped from the real high-range image instead of the pale, blown-out copy Windows hands out. Per-monitor, so a mixed setup comes out right.<span style="display:inline-block;margin-left:8px;font-family:'Geist Mono',monospace;font-size:.6rem;letter-spacing:.06em;text-transform:uppercase;color:var(--teal);border:1px solid color-mix(in srgb,var(--teal) 45%,transparent);border-radius:6px;padding:2px 6px;vertical-align:middle">New</span></p></div></div>
-      <div class="swap"><div class="old"><span class="ol">Instead of</span><div class="chips"><span>ShareX</span><span>Greenshot</span><span>Snagit</span></div></div><div class="new"><span class="nl">You get</span><p>Built-in <b>region capture</b> with an annotation editor, quick-save, and a live pixel readout.</p></div></div>
+      <div class="swap"><div class="old"><span class="ol">Instead of</span><div class="chips"><span>Capture2Text</span><span>PowerToys Text Extractor</span></div></div><div class="new"><span class="nl">You get</span><p><b>Copy text off your screen</b>: drag a region and the words land on your clipboard, in an editable window so a misread character is fixable before you paste.</p></div></div>
+      <div class="swap"><div class="old"><span class="ol">Instead of</span><div class="chips"><span>ExifCleaner</span><span>BatchPurifier</span></div></div><div class="new"><span class="nl">You get</span><p>Right-click <b>Strip metadata</b> (EXIF/IPTC/XMP/GPS), losslessly, keeping your ICC profile. Also clears <b>Content Credentials (C2PA)</b>, the provenance record ordinary cleaners leave behind, across JPEG, PNG, WebP, SVG, HEIC and AVIF.</p></div></div>
+      <div class="swap"><div class="old"><span class="ol">Instead of</span><div class="chips"><span>a washed-out HDR screenshot</span></div></div><div class="new"><span class="nl">You get</span><p><b>Screen capture that matches an HDR display</b>, tone-mapped from the real high-range image instead of the pale, blown-out copy Windows hands out. Per-monitor, so a mixed setup comes out right.</p></div></div>
+      <div class="swap"><div class="old"><span class="ol">Instead of</span><div class="chips"><span>ShareX</span><span>Greenshot</span><span>Snagit</span></div></div><div class="new"><span class="nl">You get</span><p>Built-in <b>region capture</b> with an annotation editor, quick-save, and a live pixel readout — or point at a window and grab just that window, and set a delay when you need to open a menu first.<span style="display:inline-block;margin-left:8px;font-family:'Geist Mono',monospace;font-size:.6rem;letter-spacing:.06em;text-transform:uppercase;color:var(--teal);border:1px solid color-mix(in srgb,var(--teal) 45%,transparent);border-radius:6px;padding:2px 6px;vertical-align:middle">New</span></p></div></div>
       <div class="swap"><div class="old"><span class="ol">Instead of</span><div class="chips"><span>Capture2Text</span></div></div><div class="new"><span class="nl">You get</span><p>Right-click <b>Copy text (OCR)</b>, straight to the clipboard, on Windows' own OCR engine.</p></div></div>
       <div class="swap"><div class="old"><span class="ol">Instead of</span><div class="chips"><span>ShareX uploader</span><span>Imgur apps</span></div></div><div class="new"><span class="nl">You get</span><p><b>Upload and copy a share link</b> to a keyless host, batch multi-select, no account.</p></div></div>
       <div class="swap"><div class="old"><span class="ol">Instead of</span><div class="chips"><span>PDF24</span><span>manual 7-Zip into CBZ</span></div></div><div class="new"><span class="nl">You get</span><p><b>Combine into PDF</b> or <b>CBZ</b>, natural-sorted, from a folder of scans or pages.</p></div></div>
@@ -1133,7 +1141,7 @@ a.lw-parent:hover .lw-tip,a.lw-parent:focus-visible .lw-tip{opacity:1;visibility
             <td>Yes, 331 formats</td>
             <td>Yes, video and audio play, code, PDFs and SQLite render</td>
             <td>Yes, built in</td>
-            <td>Yes, active (v2.3.0)</td>
+            <td>Yes, actively developed</td>
           </tr>
           <tr>
             <th scope="row">Classic SageThumbs</th>
@@ -1212,7 +1220,7 @@ a.lw-parent:hover .lw-tip,a.lw-parent:focus-visible .lw-tip{opacity:1;visibility
         </details>
         <details class="reveal">
           <summary><h3>What other tools does it replace?</h3><span class="pm" aria-hidden="true"></span></summary>
-          <div class="ans">One installer covers a separate thumbnailer, image converter, resizer, colour picker, screenshot and annotation tool, OCR utility, EXIF viewer, metadata stripper and image uploader, plus a command line and MCP server for scripts and AI agents. See <a href="#replaces">what it replaces</a> for the full list.</div>
+          <div class="ans">One installer covers a separate thumbnailer, image converter, resizer, colour picker, screenshot and annotation tool, OCR utility, EXIF viewer, metadata stripper, image uploader, file previewer, email viewer and 3D-model viewer, plus a command line and MCP server for scripts and AI agents. See <a href="#replaces">what it replaces</a> for the full list.</div>
         </details>
       </div>
     </div>
@@ -1242,7 +1250,7 @@ a.lw-parent:hover .lw-tip,a.lw-parent:focus-visible .lw-tip{opacity:1;visibility
         </a>
         <a class="btn btn-ghost" href="https://github.com/LunarWerxs/SageThumbs-2k" target="_blank" rel="noopener">View source</a>
       </div>
-      <p class="meta"><span class="js-app-version">v2.3.2</span> &nbsp;·&nbsp; 64-bit &nbsp;·&nbsp; Windows 11 and 10</p>
+      <p class="meta"><span class="js-app-version">v2.4.0</span> &nbsp;·&nbsp; 64-bit &nbsp;·&nbsp; Windows 11 and 10</p>
     </div>
   </div>
 </section>
@@ -1287,7 +1295,7 @@ a.lw-parent:hover .lw-tip,a.lw-parent:focus-visible .lw-tip{opacity:1;visibility
     </div>
     <div class="foot-bottom">
       <span>© 2026 LunarWerx. Licensed <a href="https://github.com/LunarWerxs/SageThumbs-2k/blob/main/.github/LICENSE.md" target="_blank" rel="noopener">PolyForm Noncommercial 1.0.0</a>.</span>
-      <span>SageThumbs 2K · <span class="js-app-version">v2.3.2</span> · Windows 11 and 10</span>
+      <span>SageThumbs 2K · <span class="js-app-version">v2.4.0</span> · Windows 11 and 10</span>
       <span>Last updated: <time datetime="2026-08-23">2026-08-23</time></span>
     </div>
   </div>
